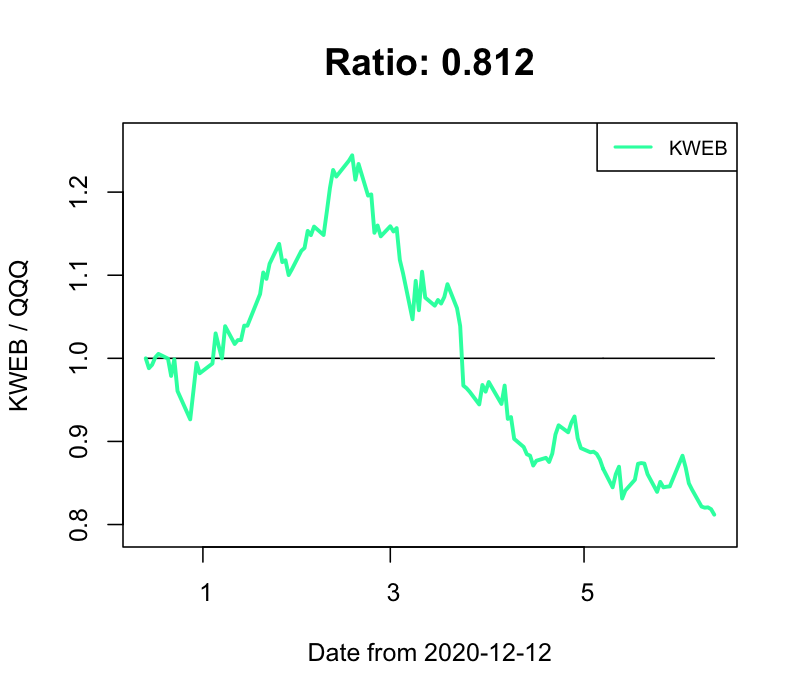
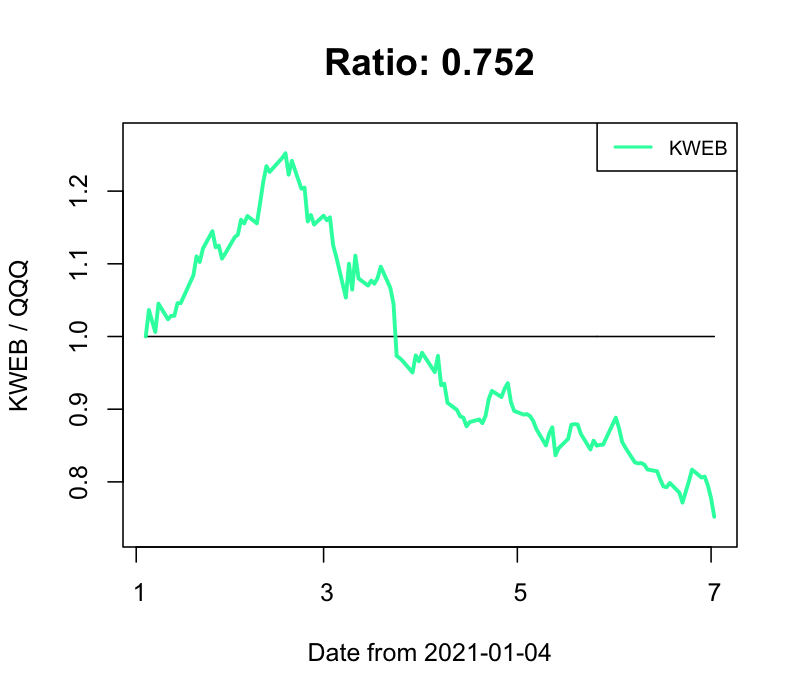
The first devel version

diff --git a/README.md b/README.md
@@ -2,29 +2,33 @@
 
 ### 逆張り投資 買いタイミング判定 ver 0.99.1
 
-- 2021-06-12 index銘柄
+- 2021-07-04 index銘柄
 
-  - 買い銘柄なしで、見送り
+  - 買いタイミング！: FEZ, FXI, GDX, GDXJ, GLD, GLDM, IAU, SPYD, SRET, VAW, VEA, VGK
 
-  - 利確タイミング！: BUG, CLOU, HYG, VEA, VGK, VHT, VOT
+  - 利確タイミング！: AGG, AGGY, AIQ, LQD
 
-  - 強く利確タイミング！！！: AGG, AGGY, BND, IYR, JNK, LQD, TLT, VWOB, XLRE
+  - 強く利確タイミング！！！: QQQ, VTI, SPY, VOO, CLOU, HYG, JNK, MGK, MILN, SHE, SPLG, SPTM, SPYG, SUSA, VCR, VGT, VHT, VONE, VONG, VOOG, VOT, VOX, VUG, XLC, XLK, XLV, XLY
 
-- 2021-06-12 レバレッジ銘柄
+- 2021-07-04 レバレッジ銘柄
 
-  - 買いタイミング！: CWEB
+  - 買いタイミング！: YINN, CHAU
 
-  - 強く利確タイミング！！！: DRN
+  - 強く買いタイミング！！！: CWEB
 
-- 2021-06-12 個別銘柄
+  - 利確タイミング！: WEBL, CURE, SPXL
 
-  - 買いタイミング！: ANTM
+  - 強く利確タイミング！！！: TECL, TQQQ, QLD
 
-  - 利確タイミング！: NIO
+  - 早めに利確タイミング！！！！: CURE, SPXL
 
-  - 強く利確タイミング！！！: ZM, DOCU
+- 2021-07-04 個別銘柄
 
-  - 早めに利確タイミング！！！！: NIO
+  - 強く買いタイミング！！！: GDRX
+
+  - 利確する銘柄なしで、見送り
+
+  - 早めに利確タイミング！！！！: PINS
 
 ### QQQ との変化比率
 
